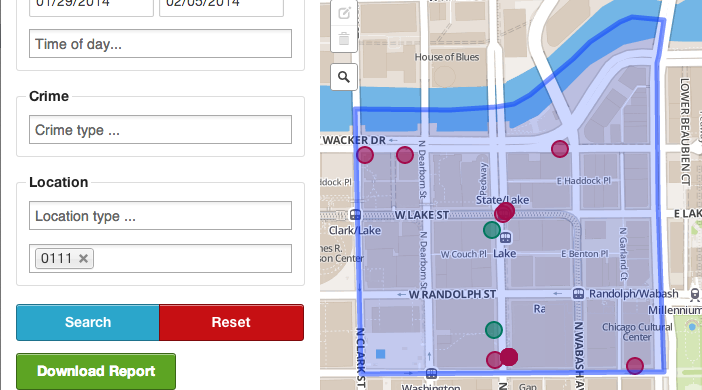
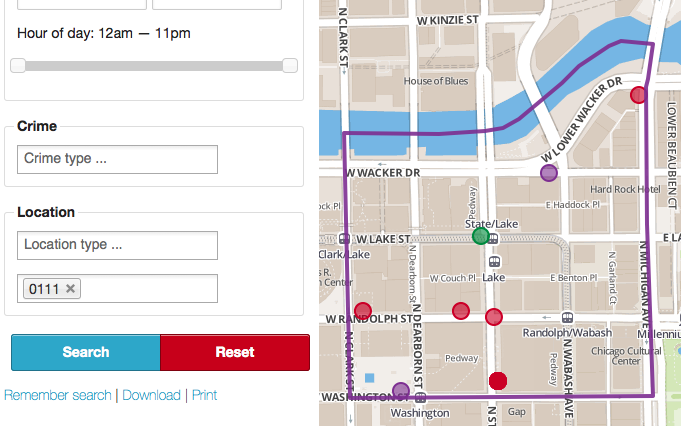
Updated help with new time of day filter and remember search instructions

diff --git a/help.html b/help.html
@@ -35,7 +35,7 @@
                 <h2 class="light">Help</h2>
                 <h3 id='drawing-on-the-map'>Drawing on the map</h3>
                 <p>
-                    Using the tools on the left side of the map, 
+                    Using the tools on the left side of the map,
                     you can draw a custom shape on the map to define the area that
                     you are interested in.
                 </p>
@@ -54,10 +54,10 @@
                     <br />3. When done, click the <strong>search</strong> button and see your results
                   </div>
                 </div>
-                
+
                 <hr />
                 <h3 id='filters'>Filters</h3>
-                <p> 
+                <p>
                     In addition to drawing on the map, you can filter on different crime attributes.
 
                     <img src='/images/filters.png' alt='Search filters' />
@@ -65,9 +65,9 @@
 
                 <h4>Date &amp; time</h4>
                 <p>The date the crime occurred. We have reports going back to Jan 1st, 2001. Be warned, searching over multiple years may take a while to process.</p>
-                
+
                 <h4>Time of day</h4>
-                <p>We can group crimes by the time of day it happened - Early morning (Midnight&ndash;6am), Morning (6am&ndash;Noon), Afternoon (Noon&ndash;6pm) and Night (6pm&ndash;Midnight).</p>
+                <p>We can group crimes by the time of day it happened. Use the slider to select the range of hours that you are interested in.</p>
 
                 <h4>Crime type</h4>
                 <p>Each crime is classified as one of 30 different types, such as <a href='/#date__lte=1391666399&date__gte=1390975200&primary_type=ASSAULT'>Assault</a>, <a href='/#date__lte=1391666399&date__gte=1390975200&primary_type=NARCOTICS'>Narcotics</a>, or <a href='/#date__lte=1391666399&date__gte=1357020000&primary_type=PROSTITUTION'>Prostitution</a>. For more detail, see the <a href='http://gis.chicagopolice.org/clearmap/crime_types.html'>full definition list</a> on the Chicago Police Department ClearPath website.</p>
@@ -83,18 +83,25 @@
 
                 <h4>Location type</h4>
                 <p>Crimes can be filtered by location description as well. This includes places like <a href='/#date__lte=1391666399&date__gte=1390975200&location_description=business_liquor'>Liquor stores</a>, <a href='/#date__lte=1391666399&date__gte=1390975200&location_description=cta'>CTA stations</a> and <a href='/#date__lte=1391666399&date__gte=1390975200&location_description=outdoors_public%2Coutdoors_residence'>streets</a>.</p>
-                
+
                 <h4>Police beat</h4>
                 <p>The Chicago Police Department divides the city in to <a href='https://portal.chicagopolice.org/portal/page/portal/ClearPath/Communities/Districts'>22 districts</a>, which are then divided in to a number of police beats made up of several city blocks. We provide the ability to filter crime by police beat.</p>
 
                 <p><img src='/images/beat_0111.png' alt='Beat 0111' /></p>
 
                 <hr />
+                <h3 id='remember-your-search'>Remember your search</h3>
+                <p>
+                    If you’re interested in saving the results of your search to review at a later time, use the
+                    <a class='light'>Remember Search</a> link to add a menu item where you can easily reload your
+                    results later.
+                </p>
+                    <img src='/images/remember.png' alt='Remember Your Search' />
                 <h3 id='download-your-search'>Download your search</h3>
                 <p>
                     If you’re interested in downloading the crime data you’re
                     searched for, you can use the
-                    <strong class='quality-of-life'>Download report</strong> button to download the data as an Excel spreadsheet.
+                    <a class='light'>Download</a> link to download the data as an Excel spreadsheet.
                 </p>
             </div>
         </div>
